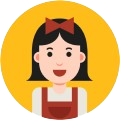
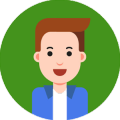
[style] 24.04.02 mypage 개인정보처리방침 클릭 향상 및 main appbar 로그인 시 아이콘 추가

diff --git a/frontend/yoyak/lib/screen/Login/login_screen.dart b/frontend/yoyak/lib/screen/Login/login_screen.dart
@@ -158,53 +158,70 @@ class _LoginScreenState extends State<LoginScreen> {
                     SizedBox(
                       width: inputWidth,
                       child: ElevatedButton(
-                        onPressed: () {
+                        onPressed: () async {
                           if (isValidate()) {
-                            try {
-                              context.read<LoginStore>().login(
-                                  context, email, password, const MainScreen());
-                              print('로그인 버튼 눌림');
-                              // 로그인 확인
-                              // if (loginCheck == '-1') {
-                              //   print('로그인 실패');
-                              //   showDialog(
-                              //     context: context,
-                              //     builder: (BuildContext context) {
-                              //       return AlertDialog(
-                              //         title: const Text('알림'),
-                              //         content: const Text('아이디 또는 비밀번호가 올바르지 않습니다.'),
-                              //         actions: [
-                              //           TextButton(
-                              //             child: const Text('닫기'),
-                              //             onPressed: () {
-                              //               Navigator.of(context).pop();
-                              //             },
-                              //           ),
-                              //         ],
-                              //       );
-                              //     },
-                              //   );
-                              // }
-                            } catch (error) {
-                              print('로그인에서 난 에러 $error');
-                              // Vibration.vibrate(duration: 300); // 진동
+                            bool loginSuccess = await context
+                                .read<LoginStore>()
+                                .login(context, email, password,
+                                    const MainScreen());
+
+                            if (!loginSuccess) {
+                              // 로그인 실패 알림
                               ScaffoldMessenger.of(context)
                                   .showSnackBar(const SnackBar(
-                                shape: RoundedRectangleBorder(
-                                  // ShapeDecoration을 사용하여 borderRadius 적용
-                                  borderRadius: BorderRadius.only(
-                                      topLeft: Radius.circular(15),
-                                      topRight: Radius.circular(15)),
-                                ),
-                                content: Text(
-                                  "로그인 되었습니다",
-                                  style: TextStyle(color: Palette.MAIN_BLACK),
-                                ),
-                                backgroundColor: Colors.yellow,
+                                content: Text("아이디 또는 비밀번호가 올바르지 않습니다.",
+                                    style:
+                                        TextStyle(color: Palette.MAIN_WHITE)),
+                                backgroundColor: Palette.MAIN_RED,
                                 duration: Duration(milliseconds: 1100),
                               ));
                             }
                           }
+                          // try {
+                          //     context.read<LoginStore>().login(
+                          //         context, email, password, const MainScreen());
+                          //     print('로그인 버튼 눌림');
+                          //     // 로그인 확인
+                          //     // if (loginCheck == '-1') {
+                          //     //   print('로그인 실패');
+                          //     //   showDialog(
+                          //     //     context: context,
+                          //     //     builder: (BuildContext context) {
+                          //     //       return AlertDialog(
+                          //     //         title: const Text('알림'),
+                          //     //         content: const Text('아이디 또는 비밀번호가 올바르지 않습니다.'),
+                          //     //         actions: [
+                          //     //           TextButton(
+                          //     //             child: const Text('닫기'),
+                          //     //             onPressed: () {
+                          //     //               Navigator.of(context).pop();
+                          //     //             },
+                          //     //           ),
+                          //     //         ],
+                          //     //       );
+                          //     //     },
+                          //     //   );
+                          //     // }
+                          //   } catch (error) {
+                          //     print('로그인에서 난 에러 $error');
+                          //     // Vibration.vibrate(duration: 300); // 진동
+                          //     ScaffoldMessenger.of(context)
+                          //         .showSnackBar(const SnackBar(
+                          //       shape: RoundedRectangleBorder(
+                          //         // ShapeDecoration을 사용하여 borderRadius 적용
+                          //         borderRadius: BorderRadius.only(
+                          //             topLeft: Radius.circular(15),
+                          //             topRight: Radius.circular(15)),
+                          //       ),
+                          //       content: Text(
+                          //         "로그인 되었습니다",
+                          //         style: TextStyle(color: Palette.MAIN_BLACK),
+                          //       ),
+                          //       backgroundColor: Colors.yellow,
+                          //       duration: Duration(milliseconds: 1100),
+                          //     ));
+                          //   }
+                          // }
                         },
                         style: ElevatedButton.styleFrom(
                           shape: RoundedRectangleBorder(

diff --git a/frontend/yoyak/lib/components/main_appbar.dart b/frontend/yoyak/lib/components/main_appbar.dart
@@ -1,8 +1,11 @@
 import 'package:flutter/material.dart';
+import 'package:kakao_flutter_sdk_user/kakao_flutter_sdk_user.dart';
+import 'package:provider/provider.dart';
 import 'package:shared_preferences/shared_preferences.dart';
-import 'package:yoyak/screen/Login/kakao/kakao_login_screen.dart';
+import 'package:yoyak/models/user/account_models.dart';
 import 'package:yoyak/screen/Login/login_screen.dart';
 import 'package:yoyak/screen/Mypage/mypage_screen.dart';
+import 'package:yoyak/store/login_store.dart';
 import 'main_appbar_button.dart';
 
 class MainAppBar extends StatefulWidget implements PreferredSizeWidget {
@@ -65,6 +68,41 @@ class _MainAppBarState extends State<MainAppBar> with WidgetsBindingObserver {
   @override
   Widget build(BuildContext context) {
     loadUserData();
+    LoginStore loginStore = context.read<LoginStore>();
+    Widget profileWidget; // 사용자 프로필 위젯
+
+    if (loginStore.accountList.isNotEmpty) {
+      // 로그인 상태일 때
+      AccountModel account = loginStore.accountList[0];
+      profileWidget = GestureDetector(
+        onTap: () {
+          Navigator.push(
+            context,
+            MaterialPageRoute(builder: (context) => const MypageScreen()),
+          );
+        },
+        child: SizedBox(
+          width: 35,
+          height: 35,
+          child: Image.asset(
+              "assets/images/profiles/profile${account.profileImg}.png"),
+        ),
+      );
+    } else {
+      profileWidget = GestureDetector(
+        onTap: () {
+          Navigator.push(
+            context,
+            MaterialPageRoute(builder: (context) => const LoginScreen()),
+          );
+        },
+        child: SizedBox(
+          width: 35,
+          height: 35,
+          child: Image.asset("assets/images/person1.png"),
+        ),
+      );
+    }
     return AppBar(
       centerTitle: true,
       automaticallyImplyLeading: false,
@@ -90,19 +128,7 @@ class _MainAppBarState extends State<MainAppBar> with WidgetsBindingObserver {
                   );
                 })
           else
-            GestureDetector(
-              onTap: () {
-                Navigator.push(
-                    context,
-                    MaterialPageRoute(
-                        builder: (context) => const MypageScreen()));
-              },
-              child: SizedBox(
-                width: 35,
-                height: 35,
-                child: Image.asset("assets/images/person2.png"),
-              ),
-            ),
+            profileWidget
         ],
       ),
     );

diff --git a/frontend/yoyak/lib/screen/Mypage/mypage_screen.dart b/frontend/yoyak/lib/screen/Mypage/mypage_screen.dart
@@ -2,7 +2,6 @@ import 'package:flutter/material.dart';
 import 'package:flutter/widgets.dart';
 import 'package:provider/provider.dart';
 import 'package:shared_preferences/shared_preferences.dart';
-import 'package:shared_preferences/shared_preferences.dart';
 import 'package:yoyak/components/accountlist_view.dart';
 import 'package:yoyak/components/rounded_rectangle.dart';
 import 'package:yoyak/hooks/goto_screen.dart';
@@ -361,29 +360,29 @@ class _MypageScreenState extends State<MypageScreen>
                   ),
                 ),
                 const SizedBox(height: 20),
-                Container(
-                  decoration: BoxDecoration(
-                    color: Palette.MAIN_WHITE,
-                    borderRadius: BorderRadius.circular(15),
-                    boxShadow: [
-                      BoxShadow(
-                        color: Palette.SUB_BLACK.withOpacity(0.15),
-                        spreadRadius: 2,
-                        blurRadius: 10,
-                        offset: const Offset(0, 2),
+                GestureDetector(
+                  onTap: () {
+                    // 개인정보 처리방침 페이지로 이동
+                    Navigator.push(
+                      context,
+                      MaterialPageRoute(
+                        builder: (context) => const PrivacyPolicyScreen(),
                       ),
-                    ],
-                  ),
-                  child: GestureDetector(
-                    onTap: () {
-                      // 개인정보 처리방침 페이지로 이동
-                      Navigator.push(
-                        context,
-                        MaterialPageRoute(
-                          builder: (context) => const PrivacyPolicyScreen(),
+                    );
+                  },
+                  child: Container(
+                    decoration: BoxDecoration(
+                      color: Palette.MAIN_WHITE,
+                      borderRadius: BorderRadius.circular(15),
+                      boxShadow: [
+                        BoxShadow(
+                          color: Palette.SUB_BLACK.withOpacity(0.15),
+                          spreadRadius: 2,
+                          blurRadius: 10,
+                          offset: const Offset(0, 2),
                         ),
-                      );
-                    },
+                      ],
+                    ),
                     child: const Padding(
                       padding: EdgeInsets.all(20.0),
                       child: Column(

diff --git a/frontend/yoyak/lib/screen/Home/home_screen.dart b/frontend/yoyak/lib/screen/Home/home_screen.dart
@@ -9,7 +9,6 @@ import 'package:yoyak/components/main_appbar.dart';
 import 'package:yoyak/components/rounded_rectangle.dart';
 import 'package:yoyak/models/user/account_models.dart';
 import 'package:yoyak/screen/Alarm/alarm_screen.dart';
-import 'package:yoyak/screen/Challenge/challenge_screen.dart';
 import 'package:yoyak/screen/Login/login_screen.dart';
 import 'package:yoyak/screen/PillBag/pill_bag_screen.dart';
 import 'package:yoyak/screen/Search/filter_search_screen.dart';
@@ -138,7 +137,7 @@ class _HomeScreenState extends State<HomeScreen> with WidgetsBindingObserver {
     }
 
     return Scaffold(
-      backgroundColor: Palette.BG_BLUE,
+      backgroundColor: Palette.MAIN_WHITE,
       body: SingleChildScrollView(
         child: Column(
           children: [
@@ -249,15 +248,11 @@ class _HomeScreenState extends State<HomeScreen> with WidgetsBindingObserver {
             Container(
               color: Palette.MAIN_WHITE,
               child: Container(
-                decoration: BoxDecoration(
+                decoration: const BoxDecoration(
                   color: Palette.MAIN_WHITE,
-                  borderRadius: const BorderRadius.only(
+                  borderRadius: BorderRadius.only(
                     topLeft: Radius.circular(20),
                     topRight: Radius.circular(20),
-                  ),
-                  border: Border.all(
-                    width: 0.1,
-                    color: Colors.grey.withOpacity(0.5),
                   ),
                 ),
                 width: screenWidth,

diff --git a/frontend/yoyak/lib/screen/Main/main_screen.dart b/frontend/yoyak/lib/screen/Main/main_screen.dart
@@ -7,10 +7,7 @@ import 'package:yoyak/screen/Alarm/alarm_screen.dart';
 import 'package:yoyak/screen/Challenge/challenge_screen.dart';
 import 'package:yoyak/store/alarm_store.dart';
 import 'package:yoyak/store/login_store.dart';
-import '../../store/challenge_store.dart';
 import '../Home/home_screen.dart';
-
-
 
 // MainScreen
 // - AlarmScreen, HomeScreen, ChallengeScreen을 담고 있는 Screen
@@ -24,7 +21,6 @@ class MainScreen extends StatefulWidget {
 }
 
 class _MainScreenState extends State<MainScreen> {
-
   var curTabIdx = 1;
   final mainTabs = [
     const AlarmScreen(),
@@ -40,7 +36,7 @@ class _MainScreenState extends State<MainScreen> {
     });
   }
 
-  void requestPermission() async{
+  void requestPermission() async {
     FirebaseMessaging messaging = FirebaseMessaging.instance;
 
     NotificationSettings settings = await messaging.requestPermission(
@@ -52,17 +48,12 @@ class _MainScreenState extends State<MainScreen> {
       provisional: false,
       sound: true,
     );
-    if(settings.authorizationStatus == AuthorizationStatus.authorized) {
+    if (settings.authorizationStatus == AuthorizationStatus.authorized) {
       print('User granted permission');
-
-      String? deviceToken = await messaging.getToken();
-    }else{
+    } else {
       print("알림 권한이 거부되었습니다");
     }
   }
-
-
-  
 
   @override
   void initState() {
@@ -86,5 +77,3 @@ class _MainScreenState extends State<MainScreen> {
     );
   }
 }
-
-

diff --git a/frontend/yoyak/lib/store/login_store.dart b/frontend/yoyak/lib/store/login_store.dart
@@ -81,7 +81,6 @@ class LoginStore extends ChangeNotifier {
           'deviceToken': context.read<LoginStore>().deviceToken,
         }));
 
-    print('너 뭔데 정체가 ${response.body}');
     var accessToken = response.body; // 액세스 토큰 저장
     if (response.statusCode == 200) {
       print("로그인 성공");
@@ -97,8 +96,7 @@ class LoginStore extends ChangeNotifier {
       );
       // return accessToken;
     } else {
-      print("회원정보가 없는경우");
-      throw Error();
+      return false;
     }
   }
 

diff --git a/frontend/yoyak/lib/screen/Search/photo_search_screen.dart b/frontend/yoyak/lib/screen/Search/photo_search_screen.dart
@@ -2,7 +2,6 @@ import 'package:flutter/material.dart';
 import 'package:yoyak/components/base_button.dart';
 import 'dart:io';
 import 'package:yoyak/components/rounded_rectangle.dart';
-import 'package:yoyak/screen/Camera/Camera.dart';
 import 'package:image_picker/image_picker.dart';
 import 'package:provider/provider.dart';
 import 'package:yoyak/screen/Search/photo_result_screen.dart';
